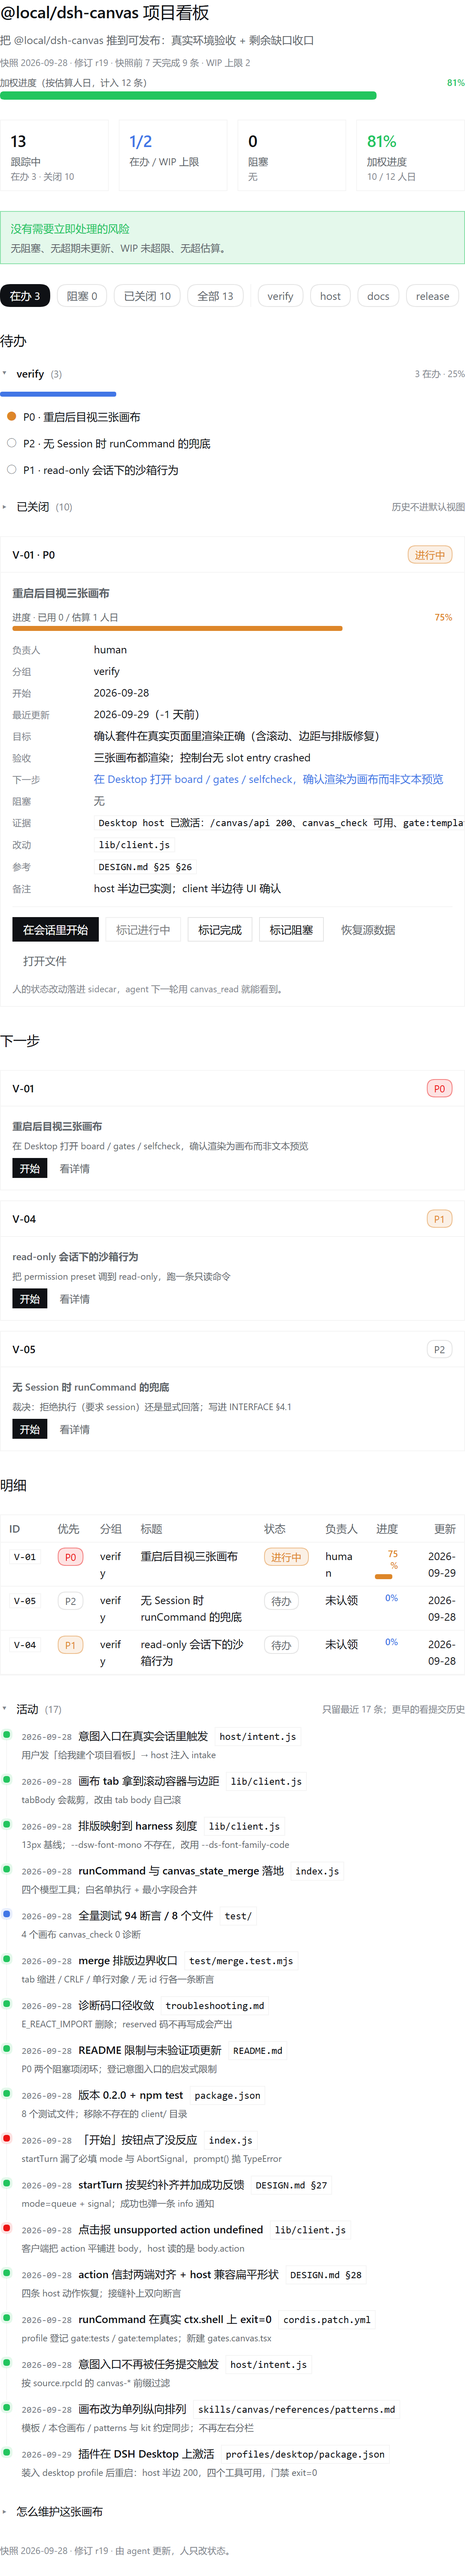
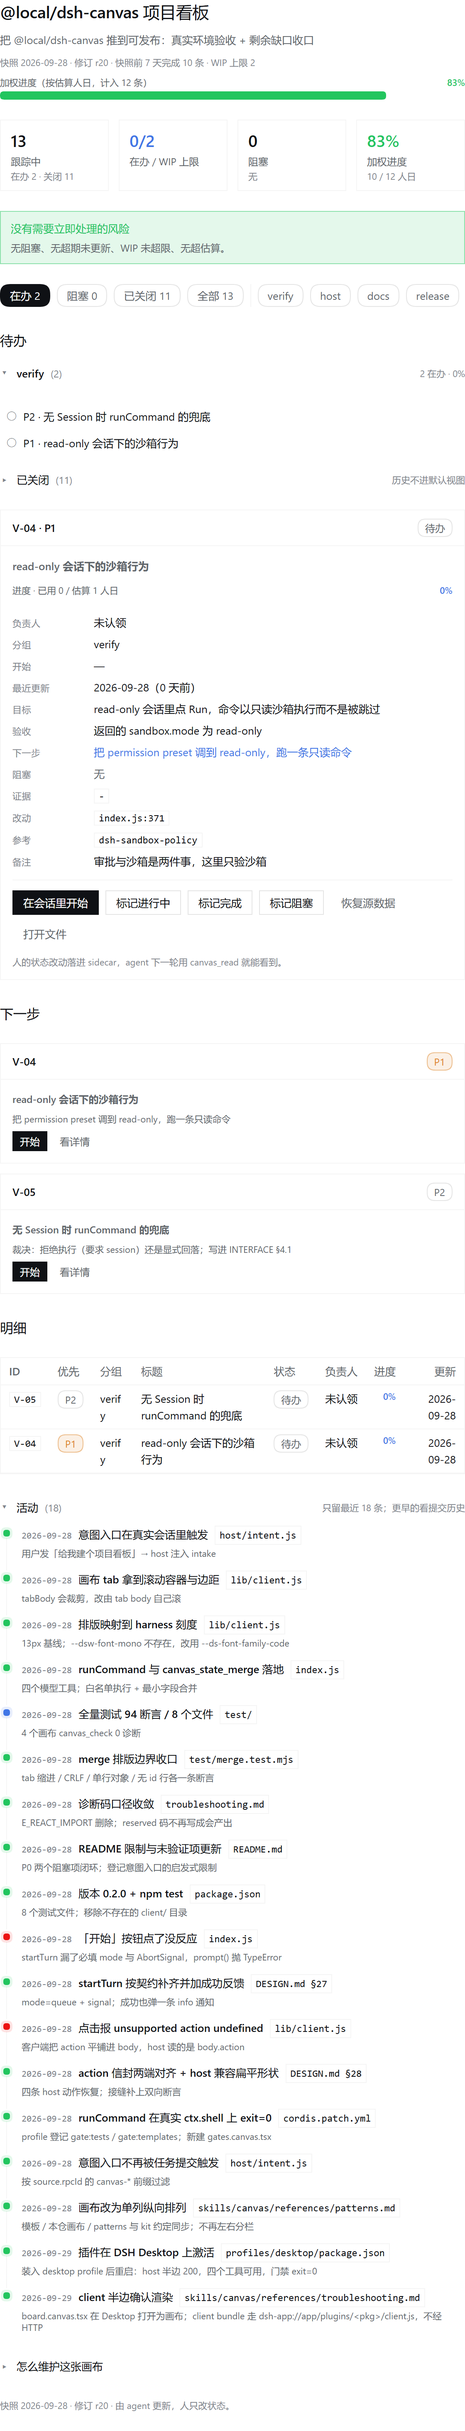
chore(board): 插件在 Desktop 端到端验收通过（r20）
- V-01 标记完成（10/13）：人眼确认 board.canvas.tsx 在 Desktop 渲染为画布，
  加上渲染进程 code cache 里有 dsh-app://app/plugins/@local/dsh-canvas/client.js
  —— host 与 client 两个半边都已实测
- 新增 a18 记录 client 半边确认
- troubleshooting.md 增加「在 Desktop 里验证安装」一节：两个半边各自的验法，
  并记下踩过的坑——client bundle 走 dsh-app:// 自定义协议，用 HTTP 探测
  /plugins/... 一律 404（官方插件同样），以及用 V8 代码缓存佐证加载的技巧
- 同步刷新 board 的浅/深截图

diff --git a/board.canvas.tsx b/board.canvas.tsx
@@ -29,21 +29,21 @@ type Task = {
 export const DATA = {
   goal: "把 @local/dsh-canvas 推到可发布：真实环境验收 + 剩余缺口收口",
   asOf: "2026-09-28",
-  revision: "r19",
+  revision: "r20",
   wipLimit: 2,
   staleDays: 7,
   lanes: ["verify", "host", "docs", "release"],
   tasks: [
     {
       id: "V-01", lane: "verify", title: "重启后目视三张画布",
-      status: "in_progress", priority: "P0", owner: "human",
-      progress: 75, estimate: 1, actual: 0,
-      startedAt: "2026-09-28", updatedAt: "2026-09-29", completedAt: "", blocker: "",
+      status: "completed", priority: "P0", owner: "human",
+      progress: 100, estimate: 1, actual: 0,
+      startedAt: "2026-09-28", updatedAt: "2026-09-29", completedAt: "2026-09-29", blocker: "",
       goal: "确认套件在真实页面里渲染正确（含滚动、边距与排版修复）",
-      next: "在 Desktop 打开 board / gates / selfcheck，确认渲染为画布而非文本预览",
+      next: "",
       acceptance: "三张画布都渲染；控制台无 slot entry crashed",
-      evidence: "Desktop host 已激活：/canvas/api 200、canvas_check 可用、gate:templates exit=0", write: "lib/client.js",
-      ref: "DESIGN.md §25 §26", note: "host 半边已实测；client 半边待 UI 确认",
+      evidence: "人眼：Desktop 打开 board.canvas.tsx 渲染为画布；进程 code cache 含 dsh-app://app/plugins/@local/dsh-canvas/client.js", write: "lib/client.js",
+      ref: "DESIGN.md §25 §26", note: "host 与 client 两个半边都已在 Desktop 实测通过",
     },
     {
       id: "V-02", lane: "verify", title: "画布意图入口真实触发",
@@ -196,6 +196,7 @@ export const DATA = {
     { id: "a15", at: "2026-09-28", title: "意图入口不再被任务提交触发", tone: "success", detail: "按 source.rpcId 的 canvas-* 前缀过滤", ref: "host/intent.js" },
     { id: "a16", at: "2026-09-28", title: "画布改为单列纵向排列", tone: "success", detail: "模板 / 本仓画布 / patterns 与 kit 约定同步；不再左右分栏", ref: "skills/canvas/references/patterns.md" },
     { id: "a17", at: "2026-09-29", title: "插件在 DSH Desktop 上激活", tone: "success", detail: "装入 desktop profile 后重启：host 半边 200，四个工具可用，门禁 exit=0", ref: "profiles/desktop/package.json" },
+    { id: "a18", at: "2026-09-29", title: "client 半边确认渲染", tone: "success", detail: "board.canvas.tsx 在 Desktop 打开为画布；client bundle 走 dsh-app://app/plugins/<pkg>/client.js，不经 HTTP", ref: "skills/canvas/references/troubleshooting.md" },
   ],
 } as const;
 
